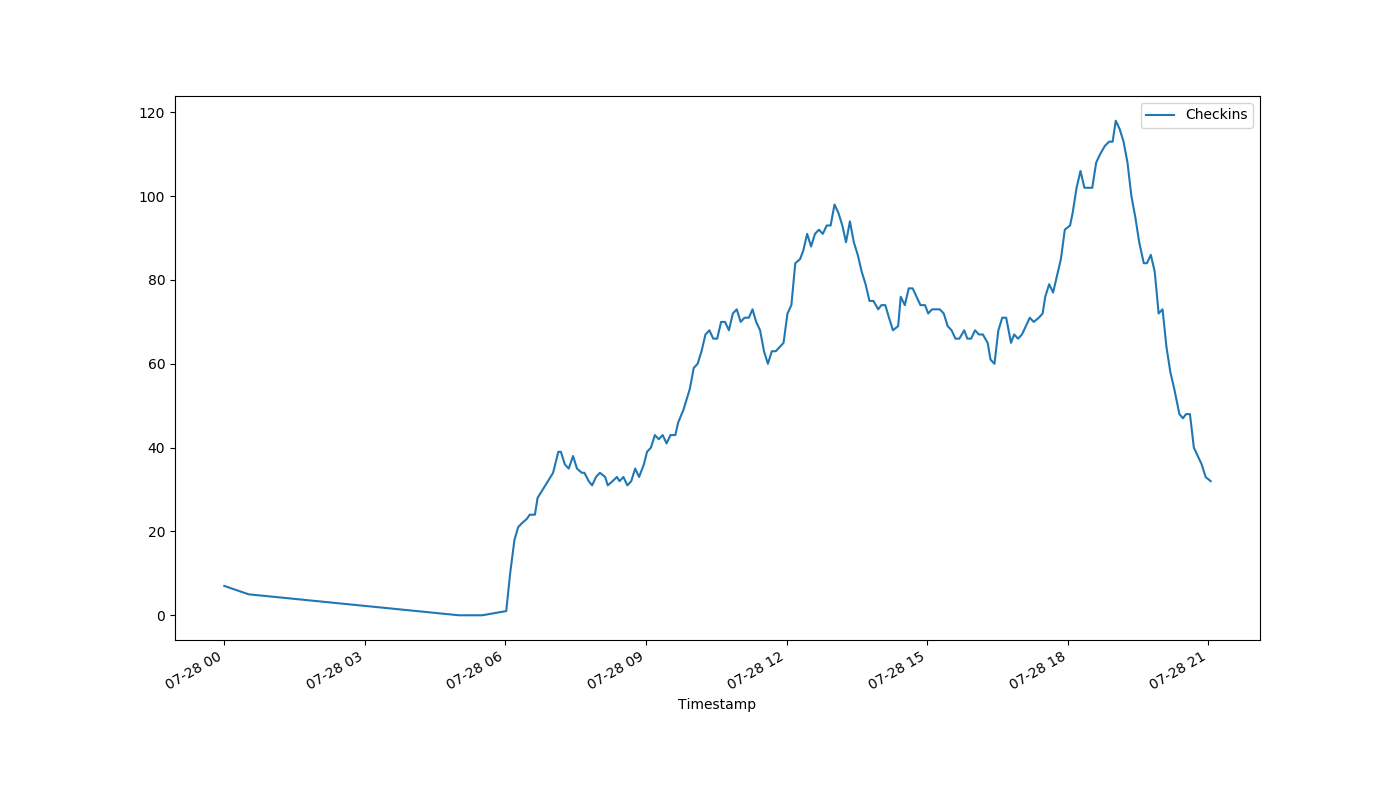
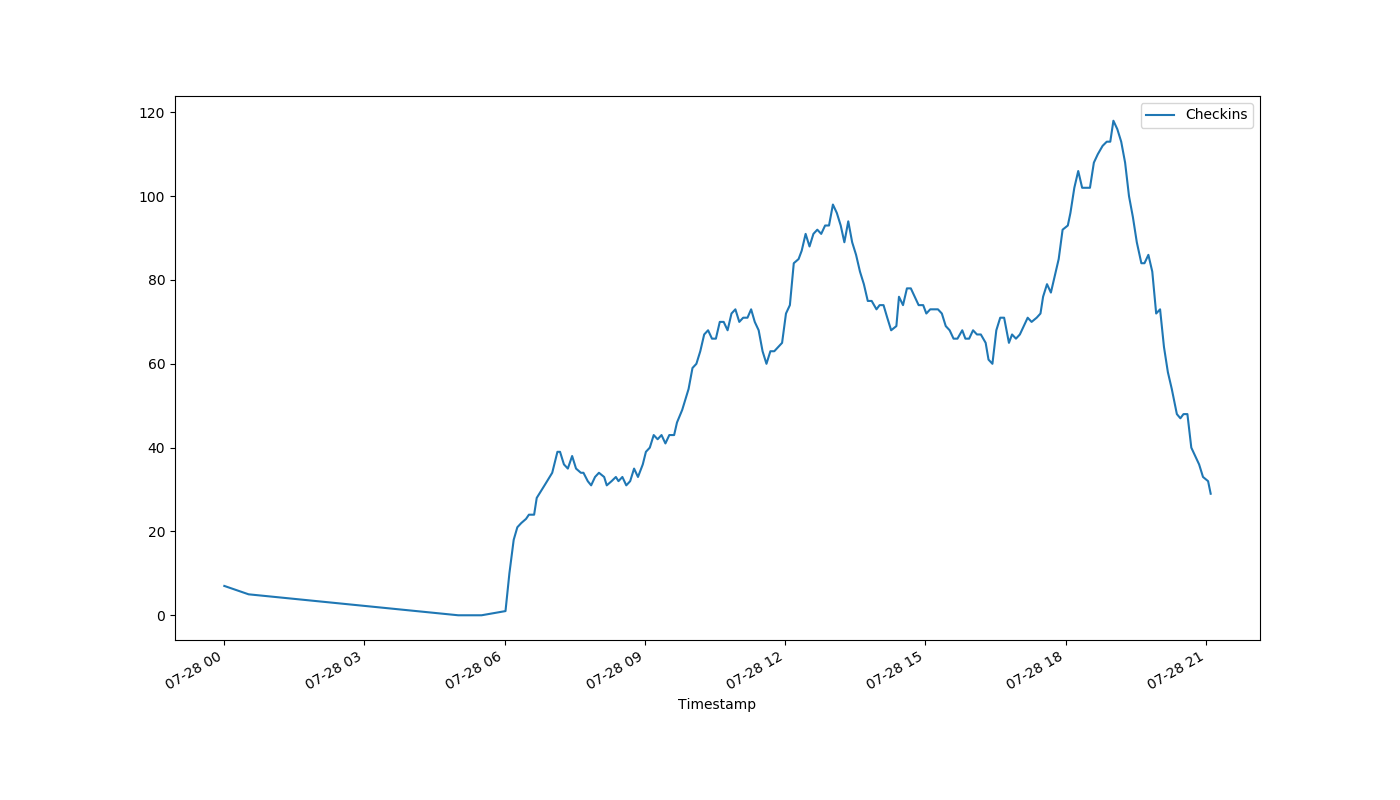
auto-Jul-28-21:07:28

diff --git a/index.html b/index.html
@@ -1,1 +1,1 @@
-<!DOCTYPE html><html><head><meta http-equiv="refresh" content="30"><link rel='stylesheet' href='holmcurrent.css'></head><body><p id='count'>32</p><div id='graph-wrap'><img id='graph' src='holmgraph-Jul-28.png'></div><p id='updated'>Last updated 21:03:03 / 21:02:48</p></body></html>
+<!DOCTYPE html><html><head><meta http-equiv="refresh" content="30"><link rel='stylesheet' href='holmcurrent.css'></head><body><p id='count'>29</p><div id='graph-wrap'><img id='graph' src='holmgraph-Jul-28.png'></div><p id='updated'>Last updated 21:07:03 / 21:06:08</p></body></html>
